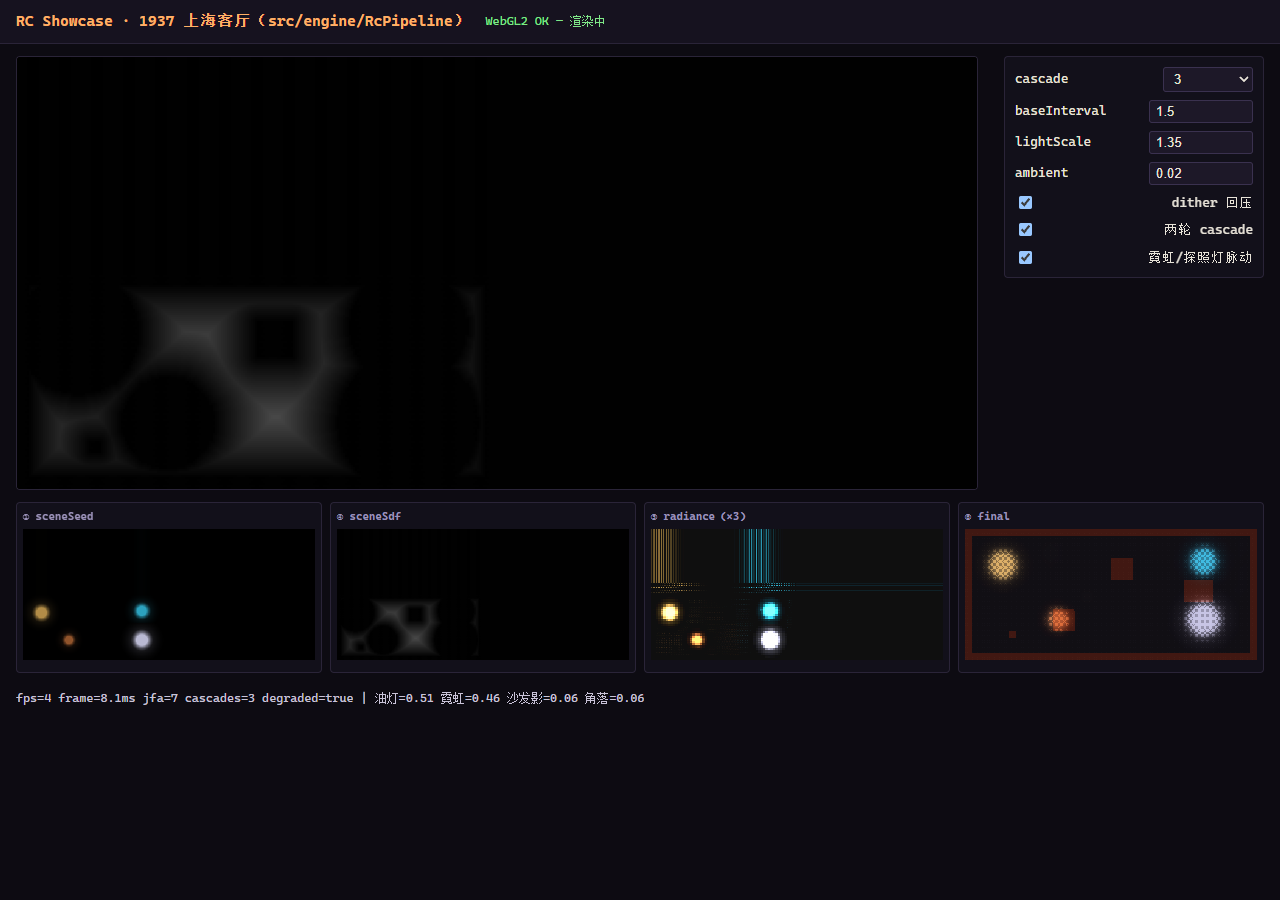
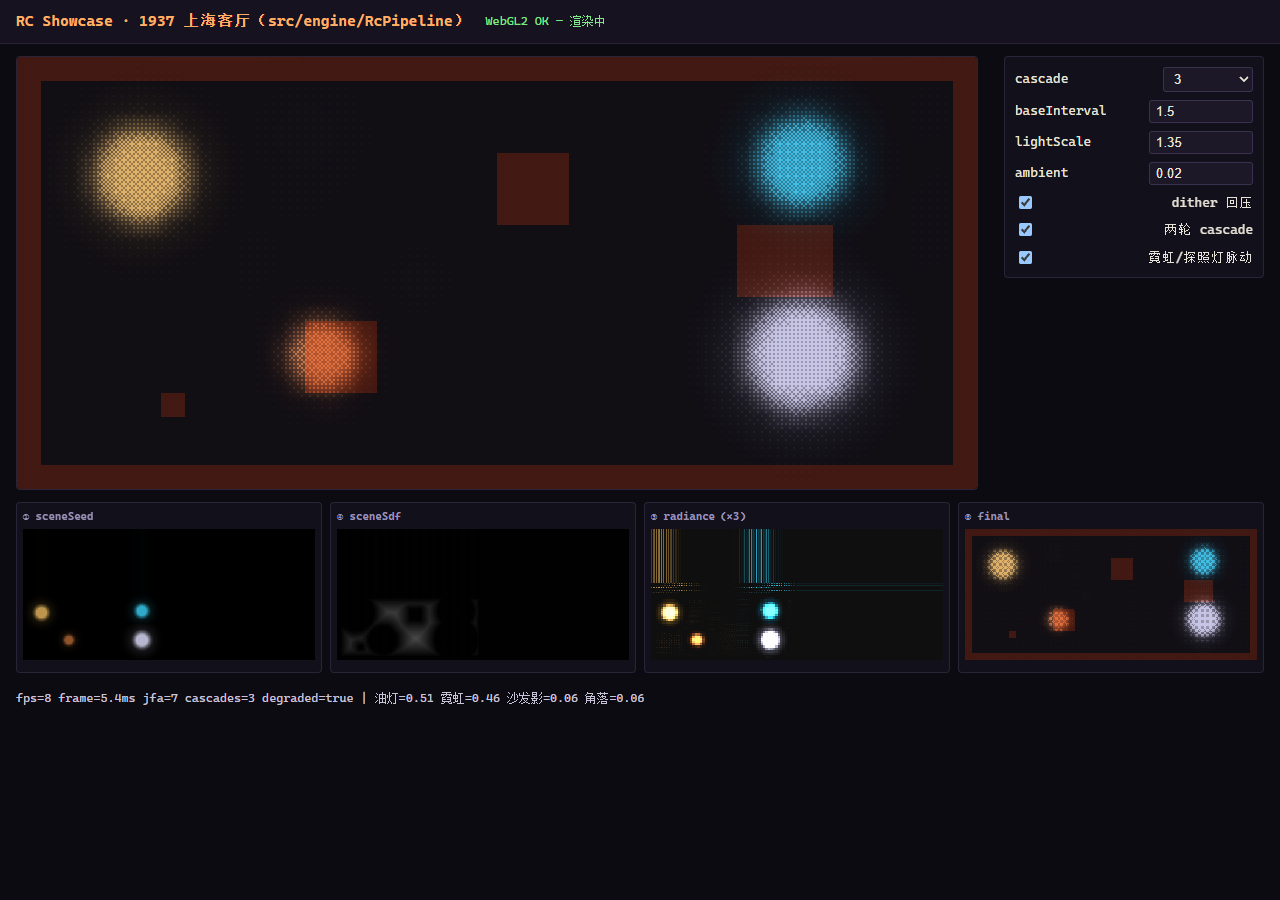
fix(hotline): replace gl.blitFramebuffer present with fullscreen passthrough quad (B69)
RC final present used gl.blitFramebuffer(FBO → default framebuffer). On some
GPU drivers (alpha:false + preserveDrawingBuffer, older ANGLE/Intel/AMD) this
silently no-ops, leaving the RC canvas black while the 2D base is hidden
(opacity:0) → full black start screen. Headless SwiftShader does not reproduce
(blit works), so this is a defensive fix for the real-GPU path.

Replace blitToScreen() with a fullscreen passthrough-quad draw (same mechanism
as debugShowStage), the most cross-driver-compatible present path.

Verified: typecheck ✅ / build ✅ / rc-lab 37+37 ✅ / production preview renders
(title bright 2.38%, play 23.28%, no console errors). Real-GPU confirmation pending.

Changed region(s): [[0.0, 0.0622, 0.7812, 0.56], [0.375, 0.1556, 0.4688, 0.2489], [0.125, 0.4356, 0.1562, 0.4667]]

diff --git a/7_hotlineShanghai/src/engine/RcPipeline.ts b/7_hotlineShanghai/src/engine/RcPipeline.ts
@@ -807,15 +807,18 @@ export class RcPipeline {
   private blitToScreen(): void {
     const gl = this.gl;
     const out = this.requireTarget('final');
-    gl.bindFramebuffer(gl.READ_FRAMEBUFFER, out.framebuffer);
-    gl.bindFramebuffer(gl.DRAW_FRAMEBUFFER, null);
+    // 全屏四边形 + passthrough shader 直出 final 纹理到默认 framebuffer。
+    // 旧 gl.blitFramebuffer(FBO→默认 framebuffer)在部分 GPU 驱动(尤其 alpha:false
+    // + preserveDrawingBuffer 组合、旧 ANGLE/Intel/AMD)上会静默 no-op,导致 RC 画布
+    // 黑屏而 2D base 又因 opacity:0 被隐藏 → 整屏黑。全屏绘制是跨驱动最兼容的呈现
+    // 方式(与 debugShowStage 同一路径),避免该整类问题。
+    gl.bindFramebuffer(gl.FRAMEBUFFER, null);
     gl.viewport(0, 0, this.canvas.width, this.canvas.height);
-    gl.blitFramebuffer(
-      0, 0, out.width, out.height,
-      0, 0, this.canvas.width, this.canvas.height,
-      gl.COLOR_BUFFER_BIT, gl.NEAREST,
-    );
-    gl.bindFramebuffer(gl.READ_FRAMEBUFFER, null);
+    const p = this.programs.passthrough;
+    gl.useProgram(p.program);
+    this.setTex(p, 'uTex', 0, out.texture);
+    this.setUniform1f(p, 'uBoost', 1);
+    this.drawFullscreen();
   }
 
   private requireTarget(

diff --git a/7_hotlineShanghai/BUGS.md b/7_hotlineShanghai/BUGS.md
@@ -82,6 +82,7 @@
 | B67 | MED | gameplay/visual | 二轮反馈:①RMB 近战发出黄色闪光(melee 的 RC 种子错用枪口色 PAL_MUZZLE);②塔楼探照灯光束几乎不可见(锥形填充 alpha 0.08 × RC base 压暗 0.5 ≈ 0.07,实测光束区 vs 背景对比 ~1.1×),塔楼沦为无威胁的装饰("boring");③撤离点"不工作"(封锁状态无反馈,玩家不知道还差清空守卫) | 逐项实测(光束像素探针:src [42,39,39] vs 背景 [6,5,10]) | FIXED(2026-08-14:①移除 melee 的 RC 光(挥击反馈=扇形楔形提示,光层归枪械);②光束可视化强化:塔楼锥形填充 alpha ×3.2 + 描边 ×3.2 + 内层亮核,RC 合成后对比 ~11×;③封锁状态显示"剩 N 名守卫",HUD 目标文案明确"清除三名巡逻与塔楼守卫"。验证:tsc ✅ / e2e 4/4 ✅ / combat-loop ✅ / light-break ✅ / rc-lab 37+37 ✅ / intro-polish ✅ / self-play 3/3 ✅) |
 | B65 | HIGH | RC/visual | 用户反馈 RC 光源过曝成白斑(artifact):final.frag `radiance * uLightScale`(2.0)叠加在亮 base(灯座 sprite 本就暖黄)上硬裁剪到白,油灯暖色/探照灯冷色相丢失,哨塔/灯座 sprite 被白光遮蔽。CANVAS_PROBE:塔 `255,255,255` 纯白、灯 `255,255,236` 近白 | `scripts/rc-fix-selfcheck.spec.js` CANVAS_PROBE 塔/灯 RGB 全 255 | FIXED(2026-08-13:final.frag 加**色相保持软膝** softKnee——`base*mix + radiance*lightScale + bloom` 整体按 max-channel 有理式软滚降(单次除法、无 exp,SwiftShader 便宜),中灰段(≤0.7)线性不变保对比度、高亮渐近 1.0 永不触白、色相精确保持。实测塔 `255,255,255`→`214,210,240`(探照灯冷蓝)、灯 `255,255,236`→`245,185,85`(油灯暖橙);rc-lab/rc-fix/rc-offset/e2e 视觉门全绿,correlation (0,0) 无偏移) |
 | B68 | HIGH | gameplay/visual | 实弹瞄准/弹道偏差:子弹自瓦片角 `player.position` 发射、命中判定也按瓦片角 `foe.position`,而 aimAngle(视觉中心起算)、枪口闪光(B66 已 +0.5)、曳光已按视觉中心——三处 0.5u 坐标系错位。①弹道整体偏上左 0.5 格落在瓦片边界行;②C96 的 ±spread 把边界行弹道压进相邻行 X 掩体 ((2,2))→ 偶发空枪;③近身命中半径 0.35 覆盖不了 0.5~0.7 的中心偏移 → 近身空枪;④曳光把 6 像素当世界单位画成 6 格光束冲出目标 → 读作"打偏" | `scripts/bug-probe.spec.js` 真实鼠标 aim→fire→bullet 轨迹 | FIXED(2026-08-15 B68:①子弹自视觉中心 `position+0.5` 发射(makeBullet);②敌人/灯命中判定也按视觉中心 `+0.5`;③曳光长度用世界单位 `speed*0.03≈1.8u`。bug-probe 实测:瞄准灯心 (4.5,3.5) 开火 → 子弹命中灯(lampHp 2→1、lightSmash 事件)。验证:tsc ✅ / build ✅ / combat-loop ✅ / light-break ✅ / self-play 3/3 ✅ / bug-probe ✅) |
+| B69 | HIGH | RC/visual | 启动黑屏(真机):RC 最终呈现走 `gl.blitFramebuffer`(FBO→默认 framebuffer);在部分 GPU 驱动(尤其 `alpha:false` + `preserveDrawingBuffer` 组合、旧 ANGLE/Intel/AMD)会静默 no-op → RC 画布全黑,而 2D base 又因 opacity:0 被隐藏 → 整屏黑。headless SwiftShader 无法复现(blit 正常) | 真机启动整屏黑 | FIXED(2026-08-15:blitToScreen 改为全屏 passthrough 四边形直出,与 debugShowStage 同路径,跨驱动最兼容;typecheck ✅ / build ✅ / rc-lab 37+37 ✅ / prod preview 渲染正常(标题 bright 2.38%、游玩 23.28%)。属防御性修复,需真机确认) |
 
 ## 修复顺序(优先级)
 
